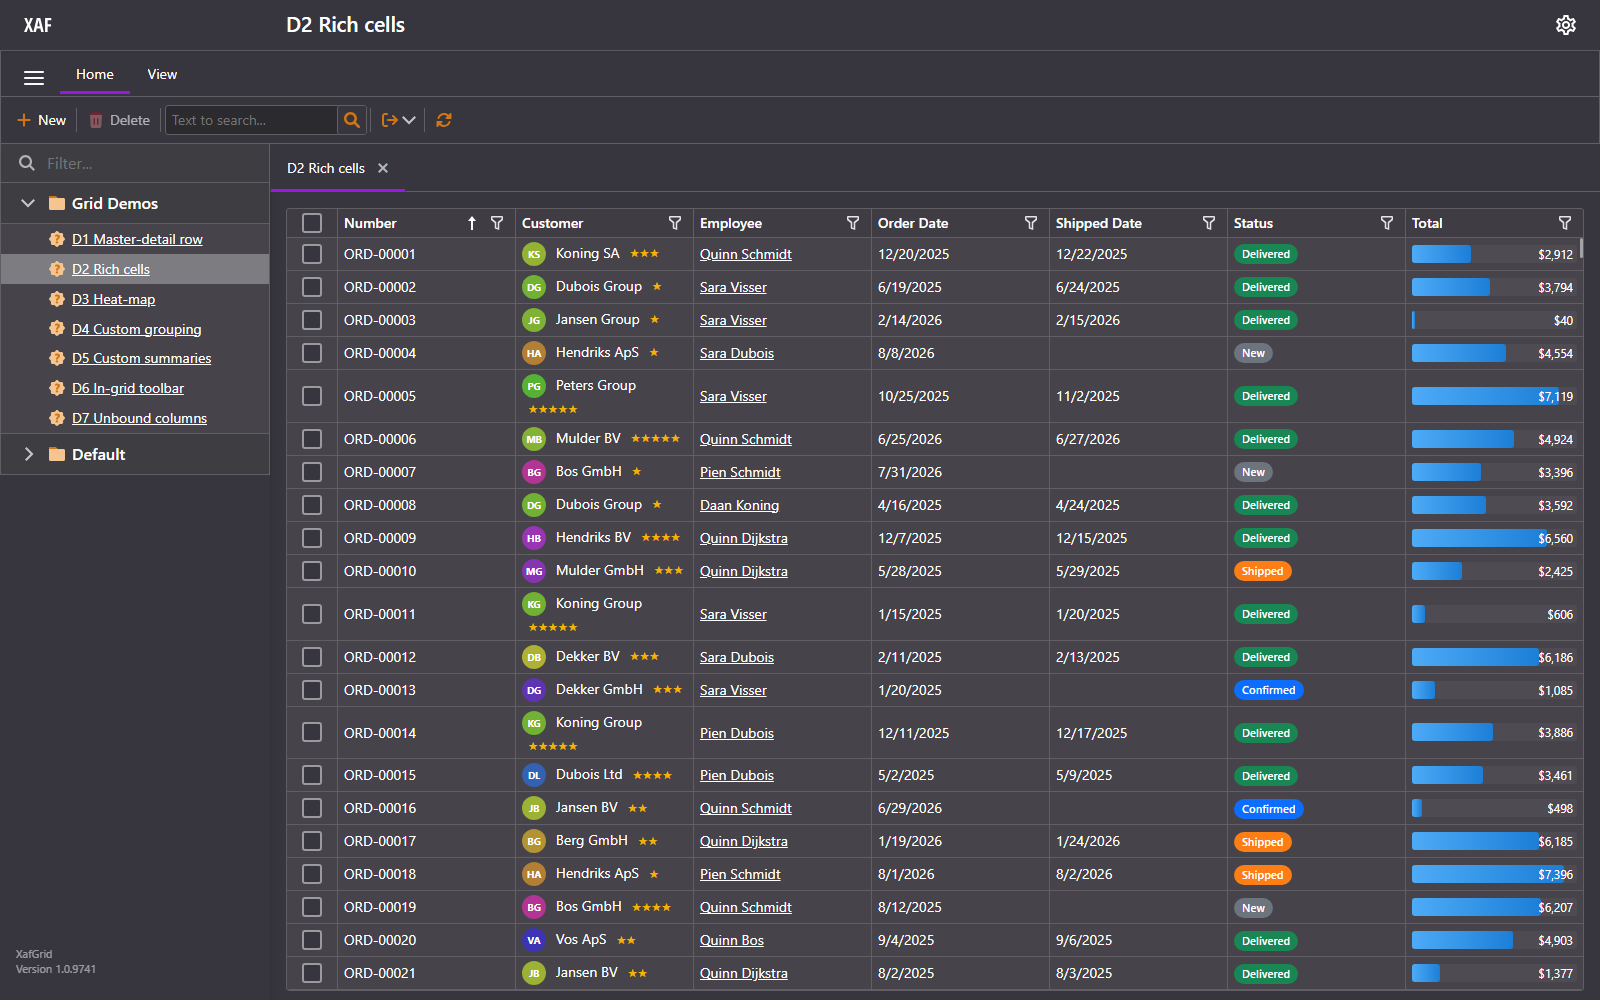
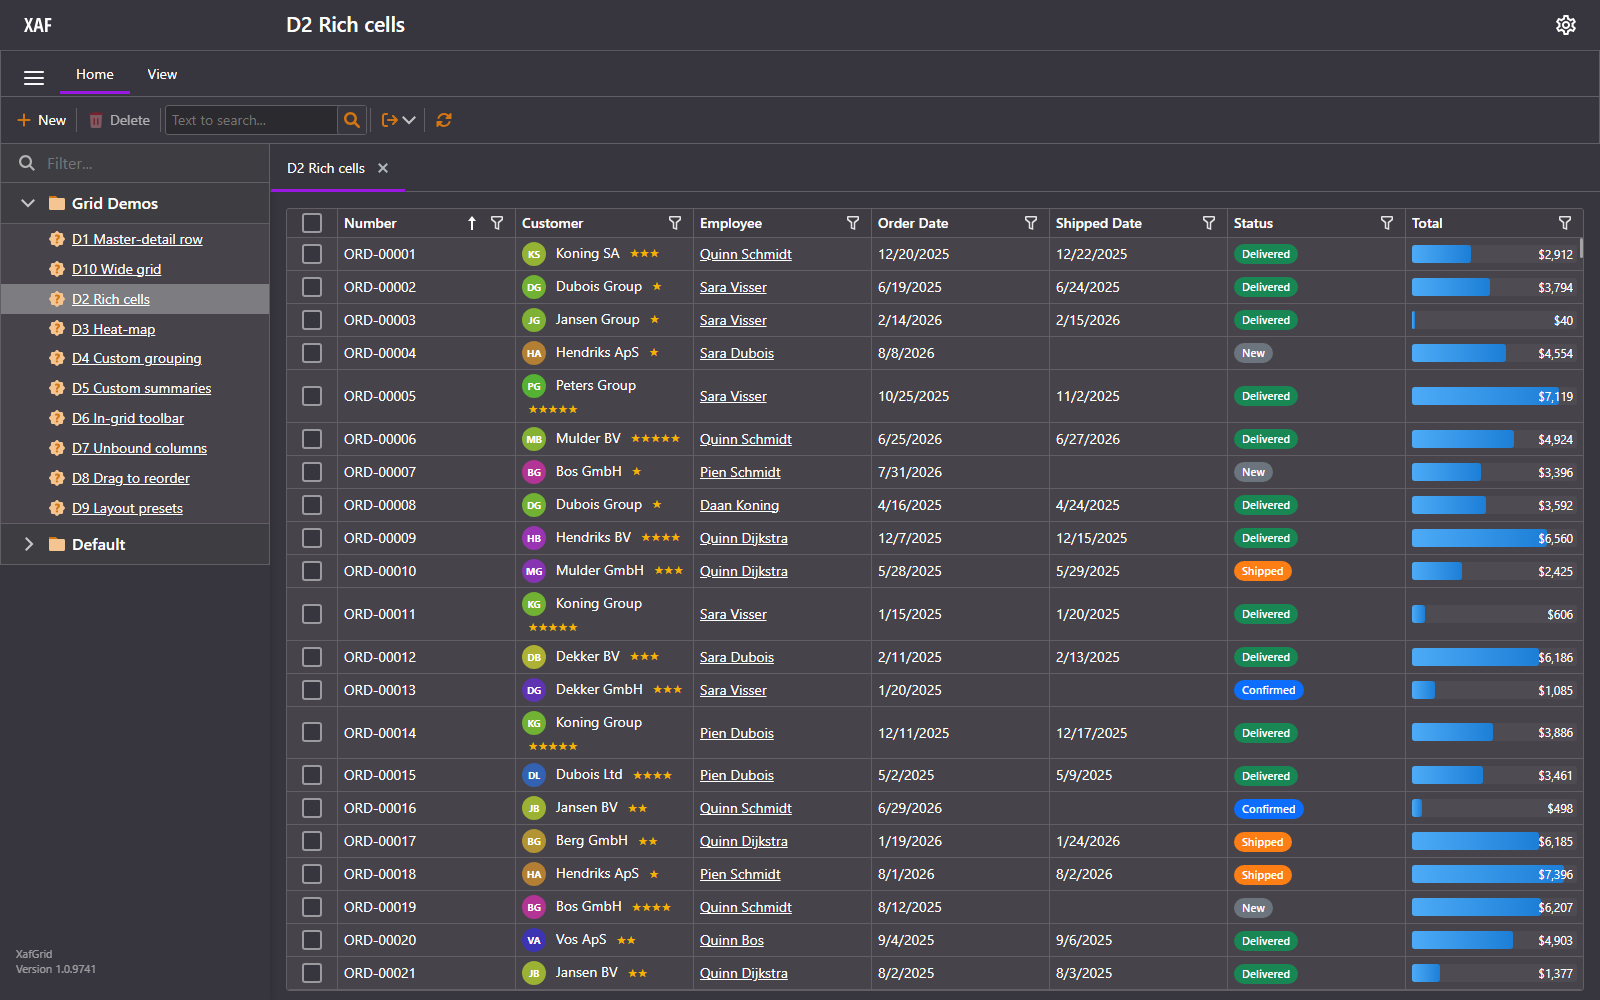
P3: D8 drag to reorder, D9 layout presets in DB, D10 wide grid with fixed columns (CARD-1480, CARD-1481, CARD-1482)
D8: AllowDragRows (on DxGridBaseModel) + AllowedDropTarget.Internal + ItemsDropped renumbers
Product.SortOrder; the grid must stay column-unsorted (DxGrid blocks between-row drops while
sorted) so the data is ordered via the model Sorting node. D9: GridLayoutPreset entity,
IGrid.SaveLayout/LoadLayout as JSON, PresetToolbar in ToolbarTemplate. D10: nested-property
columns from the generator updater, FixedPosition left/right, HeaderCaptionTemplate tooltips,
VirtualScrollingMode.RowsAndColumns. 11/11 Playwright tests green; verdicts in docs/findings.md.

Claude-Session: https://claude.ai/code/session_018oFXwwyMp4bKLnVzFL5P2w

Changed region(s): [[0.0, 0.248, 0.1875, 0.558]]

diff --git a/XafGrid.Blazor.Server/wwwroot/css/grid-demos.css b/XafGrid.Blazor.Server/wwwroot/css/grid-demos.css
@@ -33,6 +33,10 @@
 .xg-empty { padding: 32px; text-align: center; }
 .xg-empty-title { font-size: 1.2em; font-weight: 600; margin-bottom: 4px; }
 
+/* D9 presets, D10 headers */
+.xg-preset-name { width: 160px; }
+.xg-header { cursor: help; }
+
 /* D1 detail row */
 .xg-detail { display: flex; gap: 16px; padding: 8px 12px; }
 .xg-detail-card { min-width: 220px; padding: 8px 12px; border-left: 3px solid #1c7ed6; background: rgba(128,128,128,.08); }

diff --git a/XafGrid.Tests.Playwright/DemoTests.cs b/XafGrid.Tests.Playwright/DemoTests.cs
@@ -101,4 +101,75 @@ public class DemoTests : XafTest {
         await Expect(Grid).ToBeVisibleAsync(); // still on the list view — the click must not open the DetailView
         await ScreenshotAsync("d7-unbound");
     }
+
+    // first alphabetic cell of a product row = Name
+    static ILocator NameCell(ILocator row) => row.Locator("td", new() { HasTextRegex = new("[A-Za-z]") }).First;
+
+    [Test]
+    public async Task D8_drag_row_reorders_and_persists() {
+        await OpenViewAsync("Product_ListView_Reorder");
+        var first = await NameCell(DataRows.Nth(0)).InnerTextAsync();
+        var third = await NameCell(DataRows.Nth(2)).InnerTextAsync();
+        Assert.That(third, Is.Not.EqualTo(first));
+
+        // drag row 3 by its handle onto the top edge of row 1 — DevExpress needs intermediate pointer moves
+        var handle = DataRows.Nth(2).Locator("[class*='drag']").First;
+        var target = await DataRows.Nth(0).BoundingBoxAsync();
+        await handle.HoverAsync();
+        await Page.Mouse.DownAsync();
+        await Page.Mouse.MoveAsync(target!.X + 40, target.Y + target.Height / 2, new() { Steps = 10 });
+        await Page.Mouse.MoveAsync(target.X + 40, target.Y + 3, new() { Steps = 10 });
+        await Page.Mouse.UpAsync();
+
+        await Expect(NameCell(DataRows.Nth(0))).ToHaveTextAsync(third);
+        await ScreenshotAsync("d8-reorder");
+
+        await OpenViewAsync("Product_ListView_Reorder"); // persisted?
+        await Expect(NameCell(DataRows.Nth(0))).ToHaveTextAsync(third);
+    }
+
+    [Test]
+    public async Task D9_layout_preset_round_trips_through_the_database() {
+        await OpenViewAsync("Order_ListView_Presets");
+        var toolbar = Page.Locator(".xg-presets");
+        await Expect(toolbar).ToBeVisibleAsync();
+        var firstNumber = DataRows.First.Locator("td").Nth(1);
+        await Expect(firstNumber).ToHaveTextAsync("ORD-00001");
+
+        await Page.Locator(".dxbl-grid-header", new() { HasText = "Total" }).ClickAsync(); // sort by Total
+        await Expect(firstNumber).Not.ToHaveTextAsync("ORD-00001");
+        var sortedFirst = await firstNumber.InnerTextAsync();
+
+        await toolbar.Locator(".xg-preset-name input:visible").FillAsync("ByTotal"); // DxToolbar keeps a hidden measurement clone
+        await toolbar.GetByRole(AriaRole.Button, new() { Name = "Save layout" }).ClickAsync();
+        await Expect(toolbar.GetByRole(AriaRole.Button, new() { Name = "ByTotal" })).ToBeVisibleAsync();
+
+        await toolbar.GetByRole(AriaRole.Button, new() { Name = "Reset sort" }).ClickAsync(); // ClearSort drops every sort → natural DB order
+        await Expect(firstNumber).Not.ToHaveTextAsync(sortedFirst);
+
+        await toolbar.GetByRole(AriaRole.Button, new() { Name = "ByTotal" }).ClickAsync();
+        await Expect(firstNumber).ToHaveTextAsync(sortedFirst);
+        await ScreenshotAsync("d9-presets");
+    }
+
+    [Test]
+    public async Task D10_fixed_columns_stay_put_while_the_grid_scrolls() {
+        await OpenViewAsync("Order_ListView_Columns");
+        var number = Page.Locator(".dxbl-grid-header", new() { HasText = "Number" });
+        var orderDate = Page.Locator(".dxbl-grid-header", new() { HasText = "Order Date" });
+        var before = await number.BoundingBoxAsync();
+        var dateBefore = await orderDate.BoundingBoxAsync();
+
+        var scrolled = await Page.EvaluateAsync<bool>(@"() => {
+            const el = [...document.querySelectorAll('.dxbl-grid *')].find(e => e.scrollWidth > e.clientWidth + 20);
+            if (!el) return false; el.scrollLeft = 500; el.dispatchEvent(new Event('scroll')); return true; }");
+        Assert.That(scrolled, Is.True, "grid should be wider than its viewport");
+        await Page.WaitForTimeoutAsync(500); // let the virtualized columns re-render
+
+        var after = await number.BoundingBoxAsync();
+        Assert.That(after!.X, Is.EqualTo(before!.X).Within(1), "fixed column moved");
+        var dateAfter = await orderDate.BoundingBoxAsync();
+        Assert.That(dateAfter is null || dateAfter.X < dateBefore!.X - 100, "scrollable column did not move");
+        await ScreenshotAsync("d10-wide");
+    }
 }

diff --git a/XafGrid.Blazor.Server/Controllers/Demos/PresetsController.cs b/XafGrid.Blazor.Server/Controllers/Demos/PresetsController.cs
@@ -1,0 +1,60 @@
+using System.Text.Json;
+using DevExpress.Blazor;
+using DevExpress.Data.Filtering;
+using DevExpress.ExpressApp;
+using DevExpress.ExpressApp.Blazor.Editors;
+using Microsoft.AspNetCore.Components;
+using XafGrid.Blazor.Server.Components.Grid;
+using XafGrid.Module.BusinessObjects;
+
+namespace XafGrid.Blazor.Server.Controllers.Demos;
+
+/// <summary>
+/// D9 — named layout presets stored in the database (GridLayoutPreset) via IGrid.SaveLayout/LoadLayout;
+/// XAF's own persistence keeps a single layout per view.
+/// </summary>
+public class PresetsController : ObjectViewController<ListView, Order> {
+    public PresetsController() {
+        TargetViewId = "Order_ListView_Presets";
+    }
+
+    protected override void OnViewControlsCreated() {
+        base.OnViewControlsCreated();
+        if(View.Editor is not DxGridListEditor editor) return;
+
+        editor.GridModel.ToolbarTemplate = ctx => builder => {
+            builder.OpenComponent<PresetToolbar>(0);
+            builder.AddAttribute(1, nameof(PresetToolbar.Grid), ctx.Grid);
+            builder.AddAttribute(2, nameof(PresetToolbar.Presets), Presets().Select(p => p.Name).OrderBy(n => n).ToList());
+            builder.AddAttribute(3, nameof(PresetToolbar.Save), EventCallback.Factory.Create<string>(this, name => Save(ctx.Grid, name)));
+            builder.AddAttribute(4, nameof(PresetToolbar.Load), EventCallback.Factory.Create<string>(this, name => Load(ctx.Grid, name)));
+            builder.AddAttribute(5, nameof(PresetToolbar.Delete), EventCallback.Factory.Create<string>(this, Delete));
+            builder.CloseComponent();
+        };
+    }
+
+    IList<GridLayoutPreset> Presets() =>
+        ObjectSpace.GetObjects<GridLayoutPreset>(CriteriaOperator.Parse("ViewId = ?", View.Id));
+
+    GridLayoutPreset Find(string name) => Presets().FirstOrDefault(p => p.Name == name);
+
+    void Save(IGrid grid, string name) {
+        var preset = Find(name) ?? ObjectSpace.CreateObject<GridLayoutPreset>();
+        preset.ViewId = View.Id;
+        preset.Name = name;
+        preset.LayoutJson = JsonSerializer.Serialize(grid.SaveLayout());
+        ObjectSpace.CommitChanges();
+    }
+
+    void Load(IGrid grid, string name) {
+        if(Find(name) is { } preset)
+            grid.LoadLayout(JsonSerializer.Deserialize<GridPersistentLayout>(preset.LayoutJson));
+    }
+
+    void Delete(string name) {
+        if(Find(name) is { } preset) {
+            ObjectSpace.Delete(preset);
+            ObjectSpace.CommitChanges();
+        }
+    }
+}

diff --git a/XafGrid.Blazor.Server/Controllers/Demos/WideColumnsController.cs b/XafGrid.Blazor.Server/Controllers/Demos/WideColumnsController.cs
@@ -1,0 +1,46 @@
+using DevExpress.Blazor;
+using DevExpress.ExpressApp;
+using DevExpress.ExpressApp.Blazor.Editors;
+using XafGrid.Module.BusinessObjects;
+
+namespace XafGrid.Blazor.Server.Controllers.Demos;
+
+/// <summary>
+/// D10 — a grid wider than the viewport: fixed first/last columns, header caption templates with
+/// tooltips, per-column filter-button mode, row + column virtualization.
+/// </summary>
+public class WideColumnsController : ObjectViewController<ListView, Order> {
+    public WideColumnsController() {
+        TargetViewId = "Order_ListView_Columns";
+    }
+
+    protected override void OnViewControlsCreated() {
+        base.OnViewControlsCreated();
+        if(View.Editor is not DxGridListEditor editor) return;
+
+        editor.GridModel.VirtualScrollingMode = GridVirtualScrollingMode.RowsAndColumns; // VirtualScrollingEnabled comes from Model.xafml Options
+
+        foreach(var column in editor.Columns.OfType<DxGridColumnWrapper>()) {
+            var model = column.DxGridDataColumnModel;
+            model.Width = "170px";
+            model.MinWidth = 120;
+            model.FixedPosition = column.PropertyName switch {
+                nameof(Order.Number) => GridColumnFixedPosition.Left,
+                nameof(Order.Total) => GridColumnFixedPosition.Right,
+                _ => GridColumnFixedPosition.None,
+            };
+            if(column.PropertyName.Contains('.'))
+                model.FilterMenuButtonDisplayMode = GridFilterMenuButtonDisplayMode.Never; // nested columns: no filter menu
+
+            var caption = column.Caption;
+            var tooltip = $"{caption} — {column.PropertyName}";
+            model.HeaderCaptionTemplate = ctx => builder => {
+                builder.OpenElement(0, "span");
+                builder.AddAttribute(1, "class", "xg-header");
+                builder.AddAttribute(2, "title", tooltip);
+                builder.AddContent(3, (column.PropertyName.Contains('.') ? "↗ " : "") + caption);
+                builder.CloseElement();
+            };
+        }
+    }
+}

diff --git a/XafGrid.Blazor.Server/DemoViewsGeneratorUpdater.cs b/XafGrid.Blazor.Server/DemoViewsGeneratorUpdater.cs
@@ -19,6 +19,9 @@ public class DemoViewsGeneratorUpdater : ModelNodesGeneratorUpdater<ModelViewsNo
         ("Order_ListView_Summary", typeof(Order), "D5 Custom summaries"),
         ("Order_ListView_Toolbar", typeof(Order), "D6 In-grid toolbar"),
         ("Order_ListView_Unbound", typeof(Order), "D7 Unbound columns"),
+        ("Product_ListView_Reorder", typeof(Product), "D8 Drag to reorder"),
+        ("Order_ListView_Presets", typeof(Order), "D9 Layout presets"),
+        ("Order_ListView_Columns", typeof(Order), "D10 Wide grid"),
     };
 
     public override void UpdateNode(ModelNode viewsNode) {
@@ -26,6 +29,22 @@ public class DemoViewsGeneratorUpdater : ModelNodesGeneratorUpdater<ModelViewsNo
             var listView = viewsNode.AddNode<IModelListView>(id);
             listView.ModelClass = viewsNode.Application.BOModel.GetClass(type);
             listView.Caption = caption;
+        }
+
+        // D8: DxGrid refuses between-row drops while a column sort is active, so the grid itself must stay
+        // unsorted: drop the generator's default sort on the DefaultProperty column (Name) and order the
+        // data through the collection source (model Sorting node) instead.
+        var reorder = (IModelListView)viewsNode.GetNode("Product_ListView_Reorder");
+        reorder.Columns[nameof(Product.Name)].SortIndex = -1;
+        var sort = reorder.Sorting.AddNode<IModelSortProperty>(nameof(Product.SortOrder));
+        sort.PropertyName = nameof(Product.SortOrder);
+        sort.Direction = DevExpress.Xpo.DB.SortingDirection.Ascending;
+
+        // D10: nested-property columns to make the grid wider than the viewport
+        var wide = (IModelListView)viewsNode.GetNode("Order_ListView_Columns");
+        foreach(var path in new[] { "Customer.Country", "Customer.City", "Customer.Rating", "Customer.Since", "Employee.Title" }) {
+            var column = wide.Columns.AddNode<IModelColumn>(path);
+            column.PropertyName = path;
         }
     }
 }

diff --git a/XafGrid.Blazor.Server/Controllers/Demos/ReorderController.cs b/XafGrid.Blazor.Server/Controllers/Demos/ReorderController.cs
@@ -1,0 +1,39 @@
+using DevExpress.Blazor;
+using DevExpress.ExpressApp;
+using DevExpress.ExpressApp.Blazor.Editors;
+using Microsoft.AspNetCore.Components;
+using XafGrid.Module.BusinessObjects;
+
+namespace XafGrid.Blazor.Server.Controllers.Demos;
+
+/// <summary>D8 — drag rows to reorder products; the new order is persisted in Product.SortOrder (AllowDragRows + ItemsDropped).</summary>
+public class ReorderController : ObjectViewController<ListView, Product> {
+    public ReorderController() {
+        TargetViewId = "Product_ListView_Reorder";
+    }
+
+    protected override void OnViewControlsCreated() {
+        base.OnViewControlsCreated();
+        if(View.Editor is not DxGridListEditor editor) return;
+        var grid = editor.GridModel;
+
+        grid.AllowDragRows = true; // declared on DxGridBaseModel, not DxGridModel — dxdocs' member list hides it
+        grid.AllowedDropTarget = GridAllowedDropTarget.Internal;
+        grid.DragHintTextTemplate = ctx => builder => builder.AddContent(0, $"Move {ctx.DataItems.Count} product(s)");
+        grid.ItemsDropped = EventCallback.Factory.Create<GridItemsDroppedEventArgs>(this, e => OnItemsDropped(editor, e));
+    }
+
+    void OnItemsDropped(DxGridListEditor editor, GridItemsDroppedEventArgs e) {
+        var ordered = ObjectSpace.GetObjects<Product>().OrderBy(p => p.SortOrder).ToList();
+        var dropped = e.DroppedItems.Select(i => (Product)editor.GetObject(i)).ToList();
+        foreach(var p in dropped) ordered.Remove(p);
+
+        var target = e.TargetItem is null ? null : (Product)editor.GetObject(e.TargetItem);
+        var index = target is null ? ordered.Count : ordered.IndexOf(target) + (e.DropPosition == GridItemDropPosition.After ? 1 : 0);
+        ordered.InsertRange(index, dropped);
+
+        for(int i = 0; i < ordered.Count; i++) ordered[i].SortOrder = i;
+        ObjectSpace.CommitChanges();
+        View.Refresh(); // reload so the model's SortOrder sorting re-applies
+    }
+}

diff --git a/XafGrid.Module/BusinessObjects/GridLayoutPreset.cs b/XafGrid.Module/BusinessObjects/GridLayoutPreset.cs
@@ -1,0 +1,12 @@
+using System.ComponentModel;
+using DevExpress.Persistent.BaseImpl.EF;
+
+namespace XafGrid.Module.BusinessObjects;
+
+/// <summary>A named DxGrid layout (GridPersistentLayout as JSON) for one ListView — XAF itself keeps only one layout per view.</summary>
+[DefaultProperty(nameof(Name))]
+public class GridLayoutPreset : BaseObject {
+    public virtual string ViewId { get; set; } = string.Empty;
+    public virtual string Name { get; set; } = string.Empty;
+    public virtual string LayoutJson { get; set; } = string.Empty;
+}

diff --git a/XafGrid.Module/BusinessObjects/XafGridDbContext.cs b/XafGrid.Module/BusinessObjects/XafGridDbContext.cs
@@ -19,6 +19,7 @@ public class XafGridEFCoreDbContext : DbContext {
     public DbSet<Product> Products { get; set; }
     public DbSet<Order> Orders { get; set; }
     public DbSet<OrderLine> OrderLines { get; set; }
+    public DbSet<GridLayoutPreset> GridLayoutPresets { get; set; }
 
     protected override void OnModelCreating(ModelBuilder modelBuilder) {
         base.OnModelCreating(modelBuilder);

diff --git a/docs/findings.md b/docs/findings.md
@@ -115,3 +115,43 @@ DetailView. Editing through the view's `ObjectSpace` + `CommitChanges()` refresh
 Added columns are appended **sorted by FieldName** (Actions, DaysOpen, LineCount, Margin), not in
 call order — set `Caption`s accordingly or expect to reorder. Column-chooser survival (spike S2)
 not checked.
+
+## D8 — drag rows to reorder (`screens/d8-reorder.png`)
+
+Verdict: **works.** `GridModel.AllowDragRows = true` (spike S1 closed: the property is declared on
+`DxGridBaseModel`, which is why dxdocs' `DxGridModel` member list omits it; `SetAttribute` exists
+as a general fallback), `AllowedDropTarget = Internal`, `DragHintTextTemplate`, and
+`ItemsDropped = EventCallback.Factory.Create<GridItemsDroppedEventArgs>(this, …)`. The handler
+renumbers `Product.SortOrder`, commits and calls `View.Refresh()`.
+
+- **DxGrid refuses between-row drops while a column sort is active** — the drag starts (hint
+  shows) but no drop indicator appears and `ItemsDropped` never fires. XAF's column generator puts
+  `SortIndex 0` on the `DefaultProperty` column (Name), so clear it (`Columns["Name"].SortIndex =
+  -1`) and order the *data* through the model `Sorting` node (`IModelSortProperty`) instead.
+- Playwright: `DragToAsync` does not start DevExpress's pointer-based drag; hold the anchor
+  (`td.dxbl-grid-row-drag-anchor-cell`) ~250 ms after `Mouse.Down`, then move in ≥10 steps.
+
+## D9 — layout presets in the database (`screens/d9-presets.png`)
+
+Verdict: **works.** `IGrid.SaveLayout()` → `JsonSerializer.Serialize(GridPersistentLayout)` into a
+`GridLayoutPreset` entity (ViewId, Name, LayoutJson) through the view's `ObjectSpace`;
+`LoadLayout(JsonSerializer.Deserialize<GridPersistentLayout>(json))` restores sort/columns. The
+preset toolbar (`PresetToolbar.razor`) lives in `ToolbarTemplate` and owns the visible list.
+Spike S6: XAF's own layout sync coexists — loading a preset also updates the model, harmless.
+Gotchas: `DxTextBox` needs `BindValueMode.OnInput` for a button enabled on typing; `ClearSort()`
+removes *every* sort including XAF's default Number sort → natural DB order.
+
+## D10 — wide grid (`screens/d10-wide.png`)
+
+Verdict: **works.** Extra nested-property columns (`Customer.Country`, … `Employee.Title`) added in
+the generator updater (`Columns.AddNode<IModelColumn>(path)` + `PropertyName`), then per column on
+`DxGridDataColumnModel`: `Width`, `MinWidth`, `FixedPosition` (Left for Number, Right for Total —
+spike S3 closed), `FilterMenuButtonDisplayMode = Never` for nested columns, and a
+`HeaderCaptionTemplate` with a tooltip `title`. `VirtualScrollingMode = RowsAndColumns` on top of
+the model's `VirtualScrollingEnabled` virtualizes columns too. Fixed columns stay put while the
+rest scrolls (test compares header bounding boxes).
+
+## Not done
+
+D11 (filter-row / filter-menu templates, custom search box) and D12 (custom edit form template)
+are left out — lower value than the ten above; the same `DxGridModel` template properties apply.
